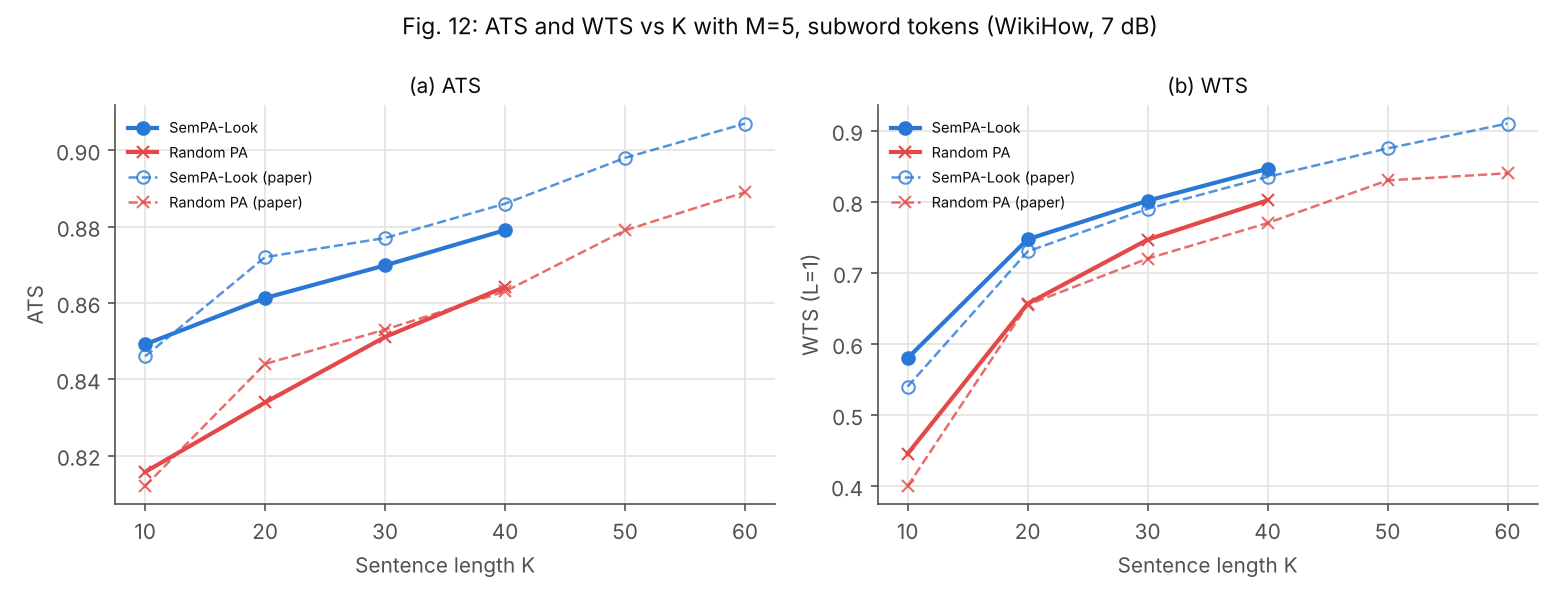
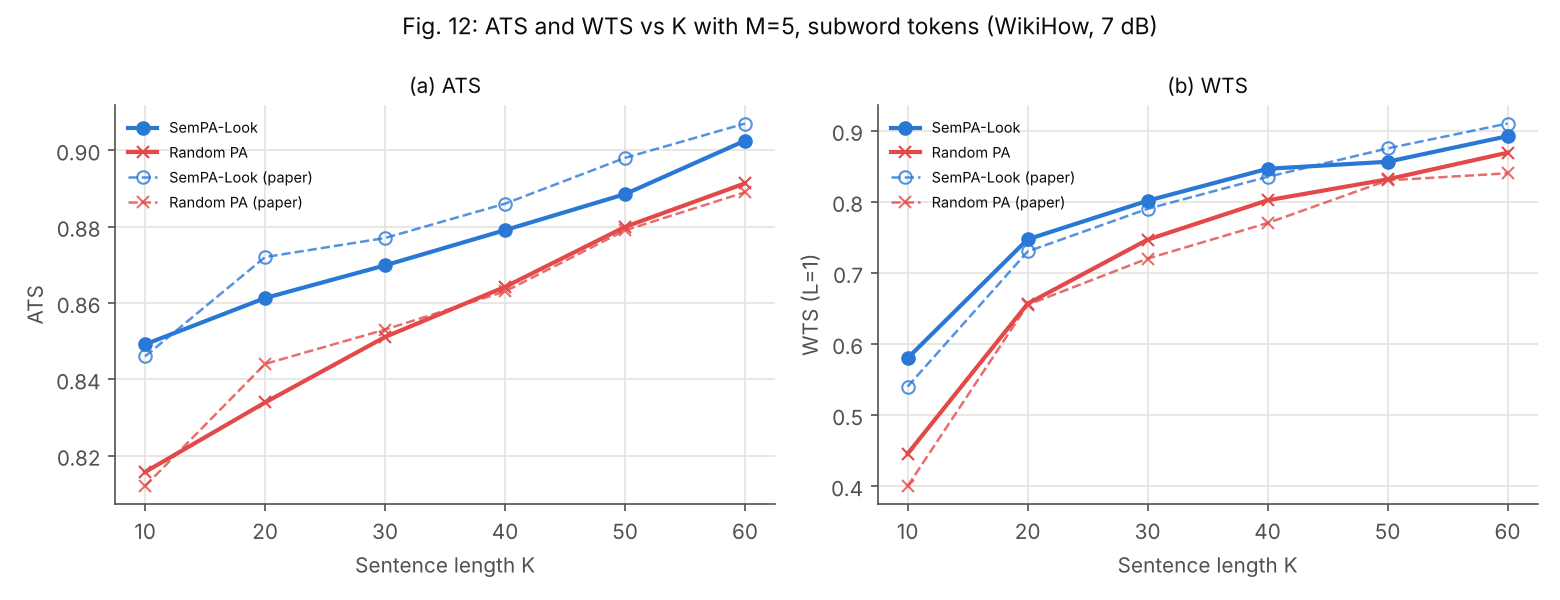
Stage 4: subword Fig. 12 at K=50, 60
Claude-Session: https://claude.ai/code/session_01PTCDSwjeNvrbGpEkBsPFnS

diff --git a/docs/reproduction_table.md b/docs/reproduction_table.md
@@ -98,7 +98,7 @@
 | Fig. 12a | Random PA ATS at K=40 | WikiHow, M=5, 7 dB, subword | 0.8630 | 0.8642 | +0.1% | read off plot |
 | Fig. 12b | SemPA-Look WTS (L=1) at K=10 | WikiHow, M=5, subword | 0.5400 | 0.5800 | +7.4% | read off plot |
 | Fig. 12b | Random PA WTS (L=1) at K=10 | WikiHow, M=5, subword | 0.4000 | 0.4455 | +11.4% | read off plot |
-| Fig. 12a | SemPA-Look ATS at K=60 | WikiHow, M=5, 7 dB, subword | 0.9070 | not run |  | read off plot |
+| Fig. 12a | SemPA-Look ATS at K=60 | WikiHow, M=5, 7 dB, subword | 0.9070 | 0.9025 | -0.5% | read off plot |
 | Fig. 13b | SemPA-Look ATS at K=28, N=2 | WikiHow, 7 dB, subword | 0.8620 | 0.8643 | +0.3% | read off plot |
 | Fig. 13b | SemPA-Look ATS at K=28, N=4 | WikiHow, 7 dB, subword | 0.8690 | 0.8708 | +0.2% | read off plot |
 | Fig. 13b | Random PA ATS at K=28, N=2 | WikiHow, 7 dB, subword | 0.8330 | 0.8372 | +0.5% | read off plot |
